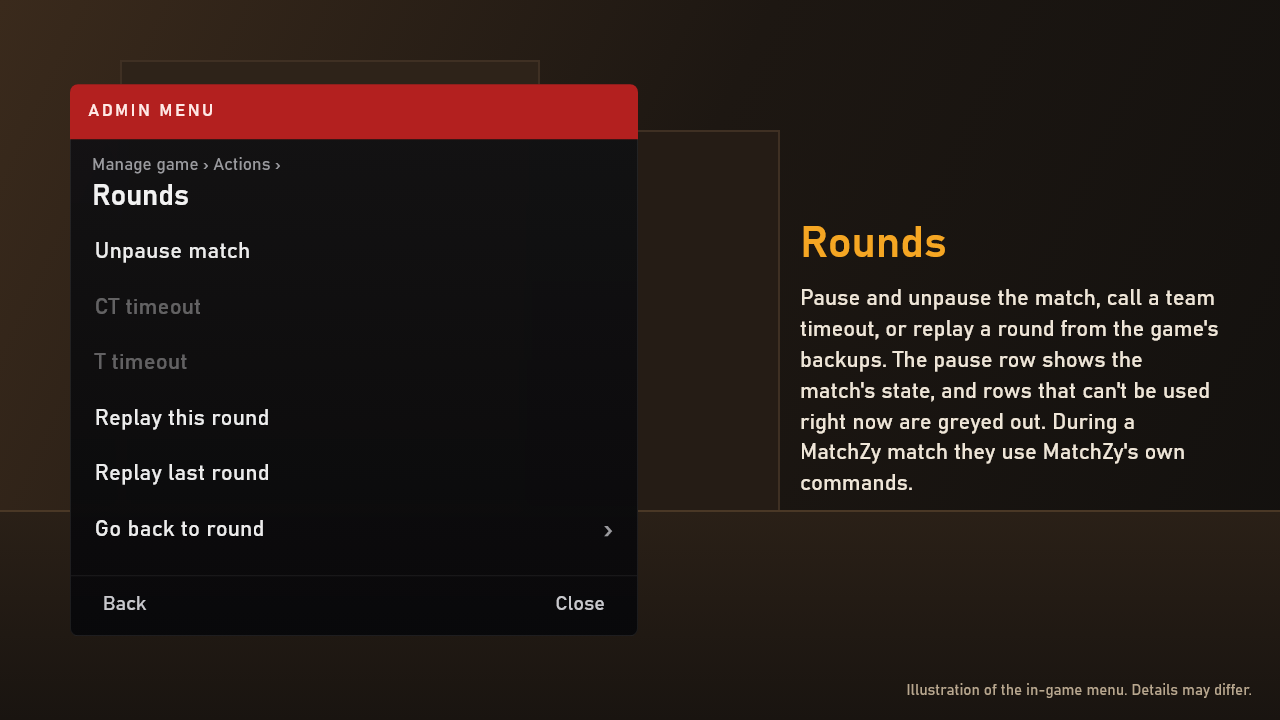
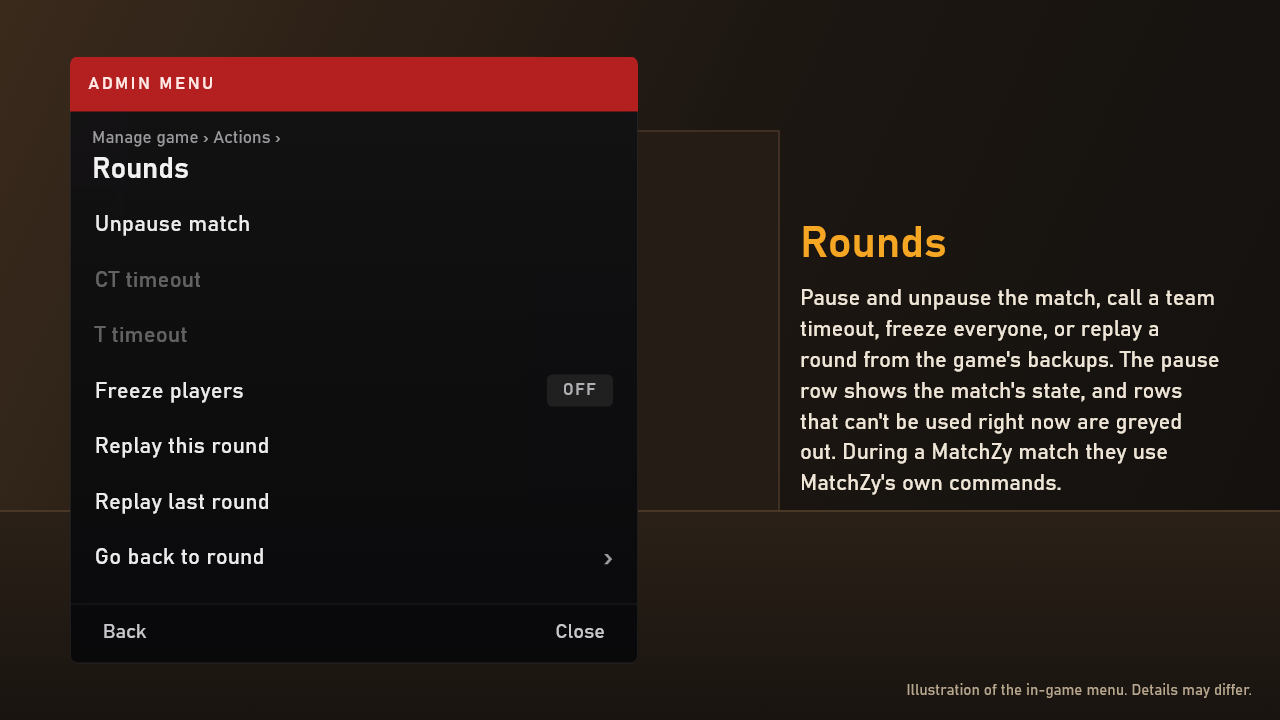
feat: Freeze players toggle on the Rounds page (holds the round clock); the Fun actions are out of the bundle, SimpleAdmin's own Fun Commands menu covers them

diff --git a/addon/mockups/scenes.html b/addon/mockups/scenes.html
@@ -114,11 +114,12 @@ admin:{h:'Admin panel',p:'CS2-SimpleAdmin on its own panel, in red so admin tool
   '<div class="rw"><span>RTV / Nominate</span><div class="pill on">ON</div></div>'+
   '<div class="rw"><span>Rotate when empty</span><div class="pill off">OFF</div></div>'+
   '</div><div class="bot"><span>Back<span class="nx">Next</span></span><span>Close</span></div></div>'}
-,rounds:{h:'Rounds',p:'Pause and unpause the match, call a team timeout, or replay a round from the game\'s backups. The pause row shows the match\'s state, and rows that can\'t be used right now are greyed out. During a MatchZy match they use MatchZy\'s own commands.',
+,rounds:{h:'Rounds',p:'Pause and unpause the match, call a team timeout, freeze everyone, or replay a round from the game\'s backups. The pause row shows the match\'s state, and rows that can\'t be used right now are greyed out. During a MatchZy match they use MatchZy\'s own commands.',
  m:'<div class="sa"><div class="hd"><div class="brand">ADMIN MENU</div></div><div class="tl"><div class="cr">Manage game &rsaquo; Actions &rsaquo;</div><div class="tt">Rounds</div></div><div class="list">'+
   '<div class="rw"><span>Unpause match</span></div>'+
   '<div class="rw dim"><span>CT timeout</span></div>'+
   '<div class="rw dim"><span>T timeout</span></div>'+
+  '<div class="rw"><span>Freeze players</span><div class="pill off">OFF</div></div>'+
   '<div class="rw"><span>Replay this round</span></div>'+
   '<div class="rw"><span>Replay last round</span></div>'+
   '<div class="rw"><span>Go back to round</span><div class="ar">&rsaquo;</div></div>'+

diff --git a/src/GameModeManager/Actions/PlayerFreeze.cs b/src/GameModeManager/Actions/PlayerFreeze.cs
@@ -1,0 +1,82 @@
+// Included libraries
+using CounterStrikeSharp.API;
+using CounterStrikeSharp.API.Core;
+using CounterStrikeSharp.API.Modules.Timers;
+using Timer = CounterStrikeSharp.API.Modules.Timers.Timer;
+
+// Declare namespace
+namespace GameModeManager.Actions
+{
+    // Define class
+    // Freeze players, on the Rounds page: everyone alive stands still (players who respawn are frozen too), and the round clock
+    // holds while they are. Not a match pause: the bomb timer, smokes and molotovs and grenades in the air keep going, which is
+    // why CS2 and MatchZy only pause in freeze time (Pause match). For casual games and admin moments. A new round or map
+    // ends it.
+    public class PlayerFreeze : IPluginDependency<Plugin, Config>
+    {
+        // Define class dependencies
+        private GameRules _gameRules;
+        private StringLocalizer _localizer;
+        private Plugin? _plugin;
+
+        // Define class constructor
+        public PlayerFreeze(GameRules gameRules, StringLocalizer localizer)
+        {
+            _gameRules = gameRules;
+            _localizer = localizer;
+        }
+
+        // Define class properties
+        private const float Tick = 0.25f;
+        private Timer? _timer;
+        public bool Frozen { get; private set; }
+
+        // Define on load behavior
+        public void OnLoad(Plugin plugin)
+        {
+            _plugin = plugin;
+            plugin.RegisterEventHandler<EventRoundStart>((@event, info) =>
+            {
+                Stop();
+                return HookResult.Continue;
+            });
+        }
+
+        // Define on map start behavior
+        public void OnMapStart(string mapName)
+        {
+            _timer = null; // The map change stopped it
+            Frozen = false;
+        }
+
+        // Define class methods
+        public void Toggle(CCSPlayerController player)
+        {
+            if (Frozen)
+            {
+                Stop();
+                Server.PrintToChatAll(_localizer.LocalizeWithPrefix("freeze.off-message", player.PlayerName));
+                return;
+            }
+
+            Frozen = true;
+            PlayerExtensions.FreezePlayers();
+            _timer = _plugin?.AddTimer(Tick, () =>
+            {
+                PlayerExtensions.FreezePlayers(); // Players who spawned since
+                _gameRules.HoldRoundClock(Tick);
+            }, TimerFlags.REPEAT | TimerFlags.STOP_ON_MAPCHANGE);
+            Server.PrintToChatAll(_localizer.LocalizeWithPrefix("freeze.on-message", player.PlayerName));
+        }
+
+        private void Stop()
+        {
+            _timer?.Kill();
+            _timer = null;
+            if (!Frozen)
+                return;
+            Frozen = false;
+            PlayerExtensions.UnfreezePlayers();
+        }
+    }
+}

diff --git a/src/GameModeManager/Actions/ActionMenus.cs b/src/GameModeManager/Actions/ActionMenus.cs
@@ -26,17 +26,19 @@ namespace GameModeManager.Actions
         private ILogger<ActionMenus> _logger;
         private RoundBackups _roundBackups;
         private MatchPause _matchPause;
+        private PlayerFreeze _playerFreeze;
         private GameRules _gameRules;
         private GameModeEvents _events;
         private Config _config = new();
 
         // Define class constructor
-        public ActionMenus(PluginState pluginState, StringLocalizer localizer, VoteService voteService, RoundBackups roundBackups, MatchPause matchPause, GameRules gameRules, GameModeEvents events, ILogger<ActionMenus> logger)
+        public ActionMenus(PluginState pluginState, StringLocalizer localizer, VoteService voteService, RoundBackups roundBackups, MatchPause matchPause, PlayerFreeze playerFreeze, GameRules gameRules, GameModeEvents events, ILogger<ActionMenus> logger)
         {
             _gameRules = gameRules;
             _events = events;
             _roundBackups = roundBackups;
             _matchPause = matchPause;
+            _playerFreeze = playerFreeze;
             _logger = logger;
             _localizer = localizer;
             _voteService = voteService;
@@ -186,6 +188,9 @@ namespace GameModeManager.Actions
                 }
             }
 
+            // Freeze players: ON/OFF, flipped in place
+            MenuFactory.Api!.AddToggle(menu, _localizer.Localize("action.freeze"), _playerFreeze.Frozen, (p, option) => _playerFreeze.Toggle(p));
+
             AddBackupRows(menu);
         }
 
@@ -212,6 +217,7 @@ namespace GameModeManager.Actions
         // The pause and timeout rows, for the admin panel's Rounds page too. Pausing in warmup does nothing, and a timeout is
         // already a pause, so it's greyed out then (unpausing stays possible).
         public MatchPause MatchPause => _matchPause;
+        public PlayerFreeze PlayerFreeze => _playerFreeze;
         public bool PauseUnavailable => (_gameRules.WarmupRunning || _gameRules.TimeoutRunning) && _matchPause.State == MatchPause.PauseState.Running;
 
         // This map's round backups, the newest first; none in warmup

diff --git a/src/GameModeManager/Common/GameRules.cs b/src/GameModeManager/Common/GameRules.cs
@@ -13,6 +13,7 @@ namespace GameModeManager.Common
     {
         // Define class properties
         CCSGameRules? _gameRules = null;
+        private CCSGameRulesProxy? _proxy;
         private bool _endRoundFailed; // The game's round-end function failed once: not offered again until a reload
         public float GameStartTime => _gameRules?.GameStartTime ?? 0;
         public bool WarmupRunning => _gameRules?.WarmupPeriod ?? false;
@@ -62,7 +63,21 @@ namespace GameModeManager.Common
         }
 
         // Define methods to set game rules
-        public void SetGameRules() => _gameRules = Utilities.FindAllEntitiesByDesignerName<CCSGameRulesProxy>("cs_gamerules").FirstOrDefault()?.GameRules;
+        public void SetGameRules()
+        {
+            _proxy = Utilities.FindAllEntitiesByDesignerName<CCSGameRulesProxy>("cs_gamerules").FirstOrDefault();
+            _gameRules = _proxy?.GameRules;
+        }
+
+        // Moves the round's start later, so its clock stands still for that long (Freeze players). Not in warmup or freeze time,
+        // where there's no round clock to hold. Like PMM_GG1MapChooser's freeze time extension.
+        public void HoldRoundClock(float seconds)
+        {
+            if (_gameRules == null || _proxy == null || !_proxy.IsValid || WarmupRunning || FreezePeriod)
+                return;
+            _gameRules.RoundStartTime += seconds;
+            Utilities.SetStateChanged(_proxy, "CCSGameRulesProxy", "m_pGameRules");
+        }
         public void SetGameRulesAsync()
         {
             _gameRules = null;

diff --git a/src/GameModeManager/Integrations/SimpleAdmin/AdminPanel.Actions.cs b/src/GameModeManager/Integrations/SimpleAdmin/AdminPanel.Actions.cs
@@ -54,6 +54,15 @@ namespace GameModeManager.Integrations.SimpleAdmin
 
             AddPauseRows(menu, _actionMenus.MatchPause);
 
+            // Freeze players: (ON) or (OFF), and the page opens again with the new state
+            bool frozen = _actionMenus.PlayerFreeze.Frozen;
+            AddOption(menu, $"({(frozen ? "ON" : "OFF")}) [{_localizer.Localize("action.freeze")}]", p =>
+            {
+                _actionMenus.PlayerFreeze.Toggle(p);
+                Call("LogCommand", c => c.Length == 2 && c[1].ParameterType == typeof(string), p, frozen ? "unfreeze players" : "freeze players");
+                Call("OpenMenu", c => c.Length == 2, InLanguage(RoundsMenu)(p), p);
+            });
+
             List<RoundBackups.Backup> backups = _actionMenus.Backups();
             AddOption(menu, _localizer.Localize("action.replay-round"), p => Act(p, "round restore 0", () => _actionMenus.Restore(p, backups[0])), backups.Count < 1);
             AddOption(menu, _localizer.Localize("action.replay-last"), p => Act(p, "round restore 1", () => _actionMenus.Restore(p, backups[1])), backups.Count < 2);

diff --git a/docs/wiki/FAQ-(Frequently-Asked-Questions).md b/docs/wiki/FAQ-(Frequently-Asked-Questions).md
@@ -27,7 +27,7 @@ sv_autobunnyhopping 1
 - `vote: false`: players can't vote on it. Admins can still change it.
 - `group: Match`: puts it on a page of its own in the settings menus, with the other settings of that group. Settings without a group are on the first page.
 - `conflicts: MatchZy`: hidden from the menus while that plugin is loaded (several, separated by commas), for a setting or action the plugin does its own way. Works in action cfgs too. The bundled cfgs use it for MatchZy: Swap teams and Scramble teams (MatchZy keeps track of which team is on which side); Add bot CT, Add bot T, Bots, Bot count and Bot difficulty (MatchZy kicks bots it didn't place, and they can't ready up; practice has its own Add bot here); and Team balance, Halftime side swap, Overtime, Free for all and Respawn (match rules MatchZy's live.cfg sets when the match goes live). Kick bots stays. The server also has it on Damage report (MatchZy prints its own) and One round.
-- `requires: CS2-SimpleAdmin_FunCommands`: the opposite, hidden unless that plugin (its name or its file name) is loaded; several are separated by commas. The bundled Fun actions need SimpleAdmin's Fun Commands module.
+- `requires: CS2-SimpleAdmin_FunCommands`: the opposite, hidden unless that plugin (its name or its file name) is loaded; several are separated by commas.
 - **Changes last through a warmup.** Ending a GameModeManager warmup runs `server.cfg` and the mode's cfg again, so the settings changed on this map are run again after them (Kus's `bots.cfg` would otherwise put `bot_difficulty` back, for one). A new map starts from the mode's cfgs.
 - `applies: next round`, `applies: restart` or `applies: map change`: for a setting the game only reads at that point. Chat says so when it changes, and "Now in effect: ..." when it does. Once the admin closes the menu, so several settings can be changed first, they're asked whether to apply the changes now, unless they already took effect in the meantime. For `restart`: "Changes need a match restart", with Restart now or Restart later. For `next round`: "Changes apply next round", with Replay round (when this round has a backup and the admin may use round backups; it puts money, kills and the timer back to the round's start), End round (ends it as a draw: nobody scores, players keep what they have, and it counts as a round played; not offered in warmup, on the last round, or in one-round modes like surf where it would end the map), Restart match, and Next round. With both kinds changed, only the restart question is asked: a restart covers both. A player vote on it asks "... and restart the match?" and restarts when it passes.
 
@@ -83,7 +83,7 @@ bot_add_ct
 - `vote: true`: players without that flag can start a vote on it, like "Run Swap Teams?".
 - `group: Bots`: puts it on a page of its own in `!actions`, with the other actions of that group. A subfolder works too: `actions/bots/add_ct.cfg` is in the Bots group unless its header says otherwise.
 
-**Actions that come with GameModeManager**, in `cfg/actions/`: Swap teams and Scramble teams (Teams); Add bot CT, Add bot T, Kick CT bots, Kick T bots and Kick all bots (Bots). With CS2-SimpleAdmin's Fun Commands module loaded, a **Fun** group for everyone at once (SimpleAdmin's own Fun Commands menu has the one-player versions): Respawn the dead, Give everyone a Deagle, an AWP or a grenade, Strip everyone's weapons, Freeze and Unfreeze everyone, Everyone 500 HP, Everyone fast and Everyone normal speed, Everyone big, tiny and normal size, and Everyone $16,000. They run SimpleAdmin's commands from the server console with a group target (`css_give @alive weapon_deagle`), and are hidden while MatchZy is loaded. Restarting a round or the game is in CS2-SimpleAdmin's Server Manage menu, so it isn't repeated here.
+**Actions that come with GameModeManager**, in `cfg/actions/`: Swap teams and Scramble teams (Teams); Add bot CT, Add bot T, Kick CT bots, Kick T bots and Kick all bots (Bots). Restarting a round or the game is in CS2-SimpleAdmin's Server Manage menu, so it isn't repeated here.
 
 The page stays open after an action runs, so you can run it several times in a row. Players only see the actions they can run or vote on.
 
@@ -91,6 +91,7 @@ The Actions pages also have a built-in Rounds page, for admins with `@css/generi
 
 - **Pause match**: one row that shows the match's state. CS2 only stops a match in freeze time, so mid-round it says "Cancel pending pause" until the next round, then "Unpause match". It reads the game's state, so a pause from the console, a round restore or another plugin shows too. It's greyed out during a timeout.
 - **CT timeout** and **T timeout**, greyed out while a pause or a timeout is running or waiting, so they can't be stacked.
+- **Freeze players** (ON/OFF): everyone alive stands still, players who respawn too, and the round clock holds while they are. It isn't a match pause: the bomb timer, smokes, molotovs and grenades in the air keep going, which is why CS2 and MatchZy only pause in freeze time. For casual games and admin moments; a new round ends it.
 - **Replay this round**, **Replay last round** and **Go back to round** (this map's rounds). They use the game's round backups, so the match goes back to the start of that round with its scores and everyone's money, and the game pauses it until an admin unpauses.
 
 Turn the page off with `Actions.Rounds: false`.
